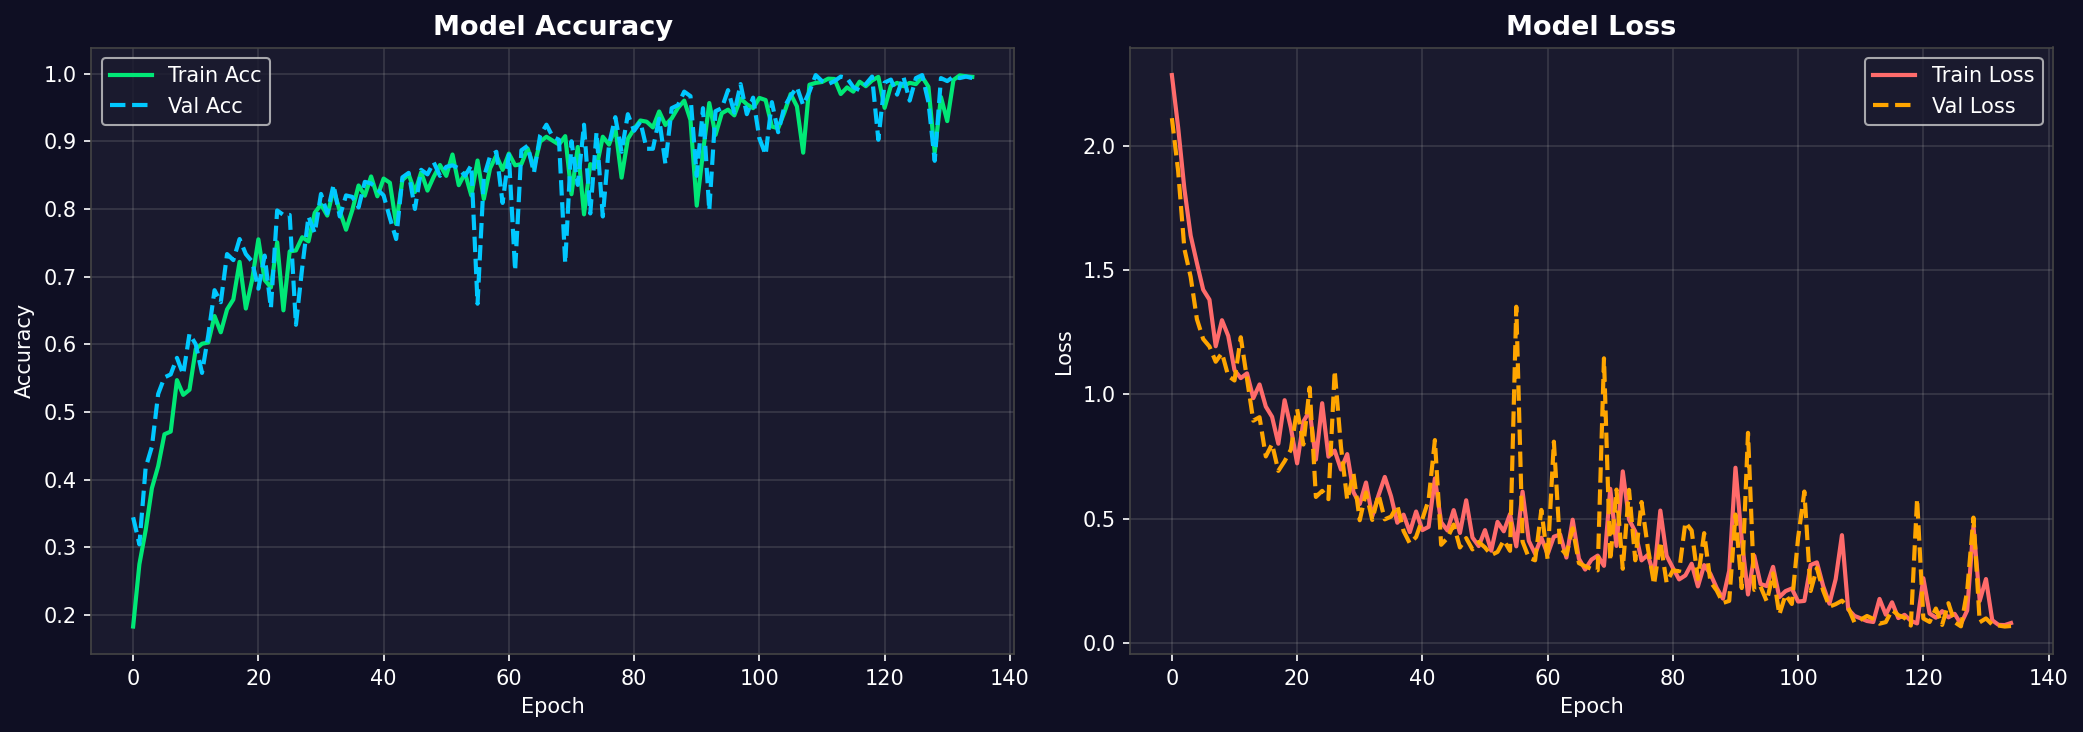
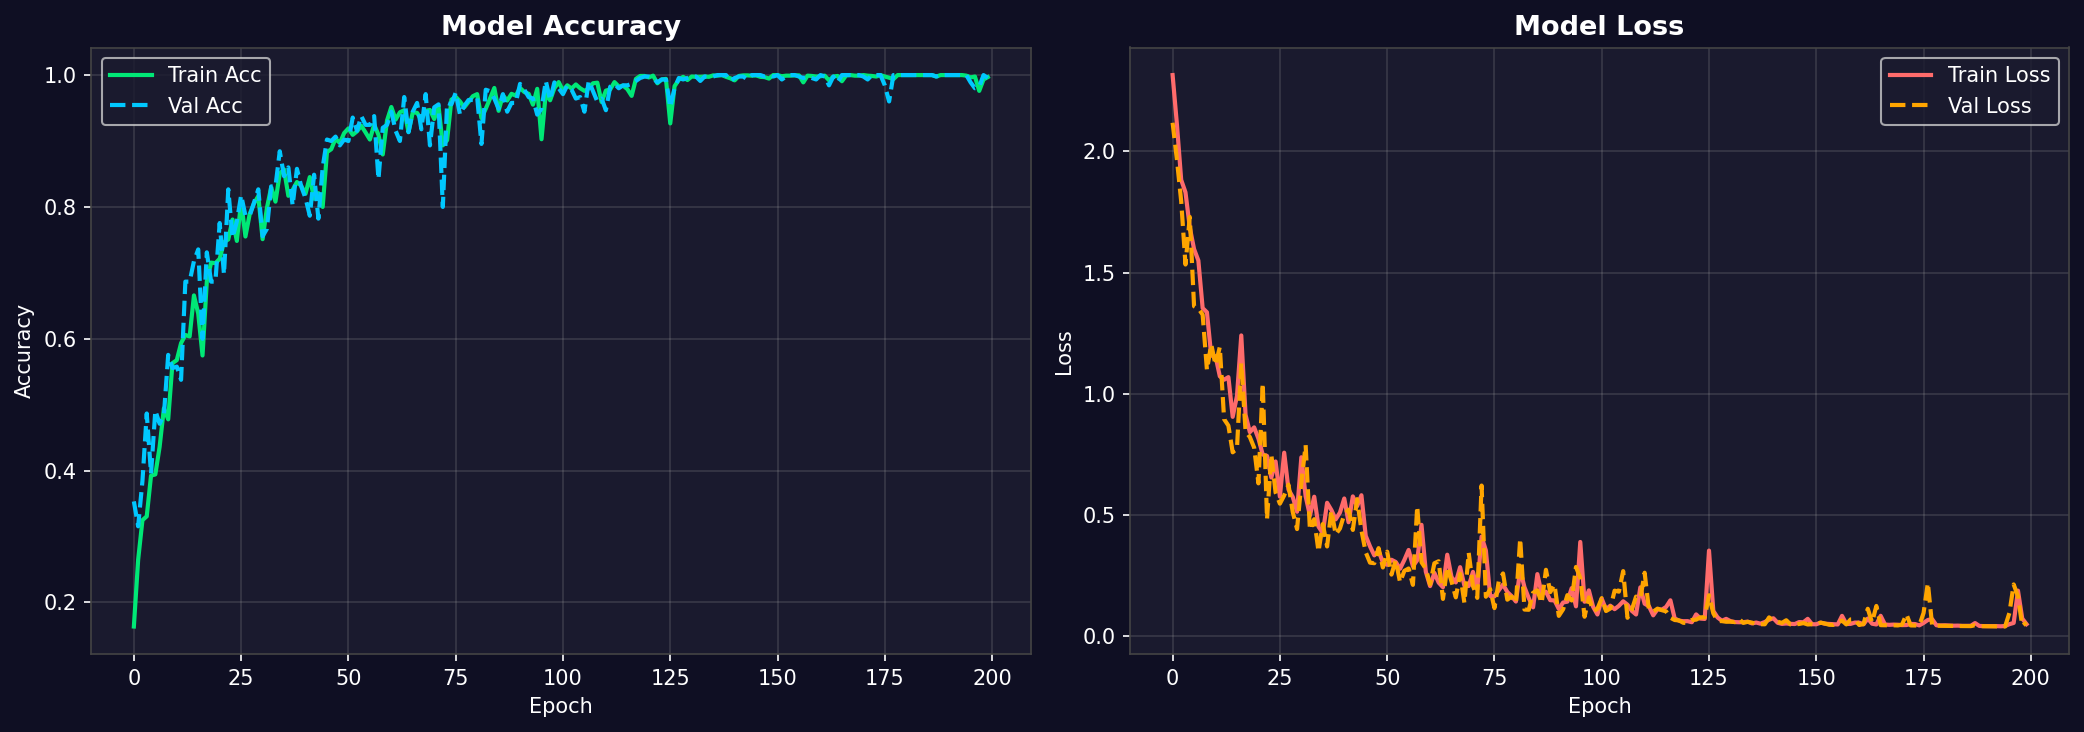
feat: implement LSTM model architecture, metadata, and real-time inference app for ISL recognition

diff --git a/model/lstm_model.py b/model/lstm_model.py
@@ -76,36 +76,26 @@ def build_lstm_model(
 
 
 def get_callbacks(log_dir: str, model_path: str) -> list:
-    """Return standard training callbacks."""
-    return [
-        # Save best model weights
-        tf.keras.callbacks.ModelCheckpoint(
-            filepath=model_path,
-            monitor="val_accuracy",
-            save_best_only=True,
-            verbose=1,
-        ),
-        # Stop early if no improvement
-        tf.keras.callbacks.EarlyStopping(
-            monitor="val_accuracy",
-            patience=25,
-            restore_best_weights=True,
-            verbose=1,
-        ),
-        # Reduce LR on plateau
-        tf.keras.callbacks.ReduceLROnPlateau(
-            monitor="val_loss",
-            factor=0.5,
-            patience=10,
-            min_lr=1e-6,
-            verbose=1,
-        ),
-        # TensorBoard logging (disabled due to Windows path unicode bug with '—')
-        # tf.keras.callbacks.TensorBoard(
-        #     log_dir=log_dir,
-        #     histogram_freq=1,
-        # ),
-    ]
+    """Return a list of Keras callbacks for training."""
+    from tensorflow.keras.callbacks import EarlyStopping, ReduceLROnPlateau
+
+    early_stop = EarlyStopping(
+        monitor="val_loss",
+        patience=25,
+        restore_best_weights=True,
+        verbose=1,
+    )
+
+    reduce_lr = ReduceLROnPlateau(
+        monitor="val_loss",
+        factor=0.5,
+        patience=10,
+        min_lr=1e-5,
+        verbose=1,
+    )
+
+    # Removed TensorBoard and ModelCheckpoint to avoid Windows path/lock issues
+    return [early_stop, reduce_lr]
 
 
 if __name__ == "__main__":

diff --git a/app/realtime_detection.py b/app/realtime_detection.py
@@ -213,8 +213,14 @@ def main():
 
             cv2.imshow("ISL Sign Language Detector", image)
 
-            # ── Key Controls ──────────────────────────────────
+            # ── Key Controls & Window Close Event ─────────────
             key = cv2.waitKey(1) & 0xFF
+            
+            # Check if user clicked the 'X' (close) button on the window
+            if cv2.getWindowProperty("ISL Sign Language Detector", cv2.WND_PROP_VISIBLE) < 1:
+                print("\n[QUIT] Window closed.")
+                break
+
             if key == ord("q"):
                 print("\n[QUIT] Exiting.")
                 break